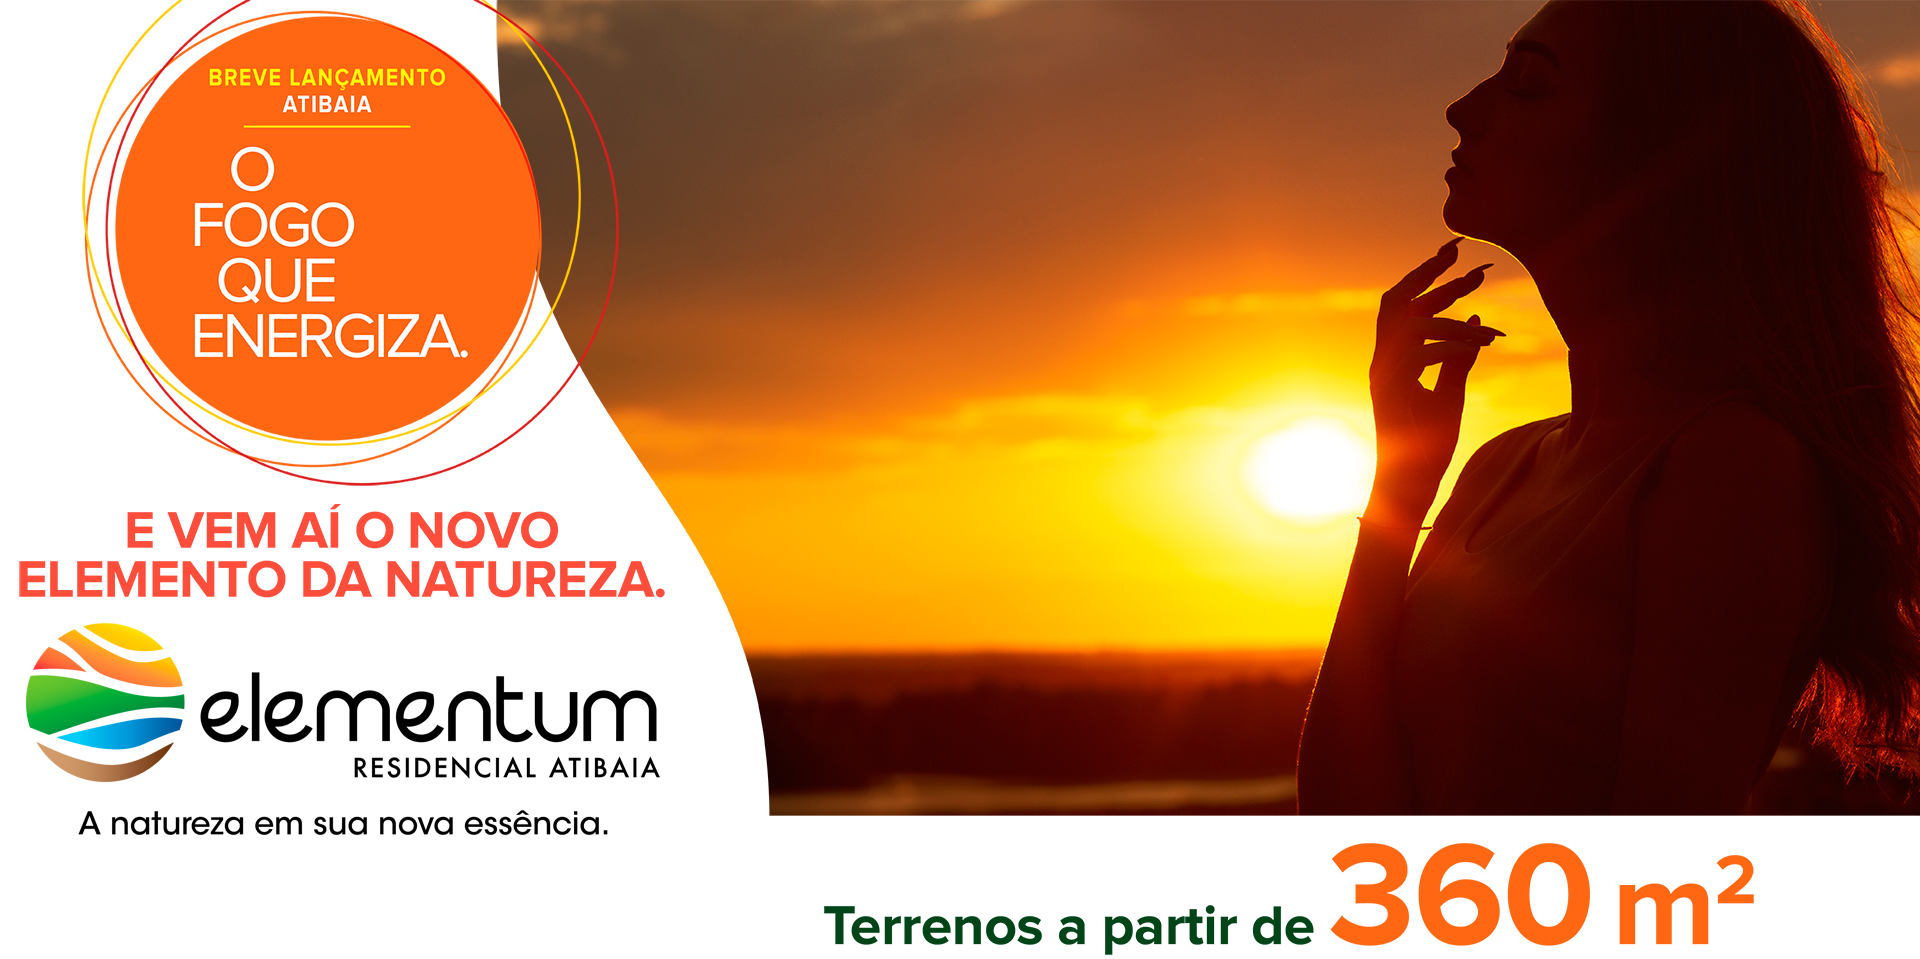
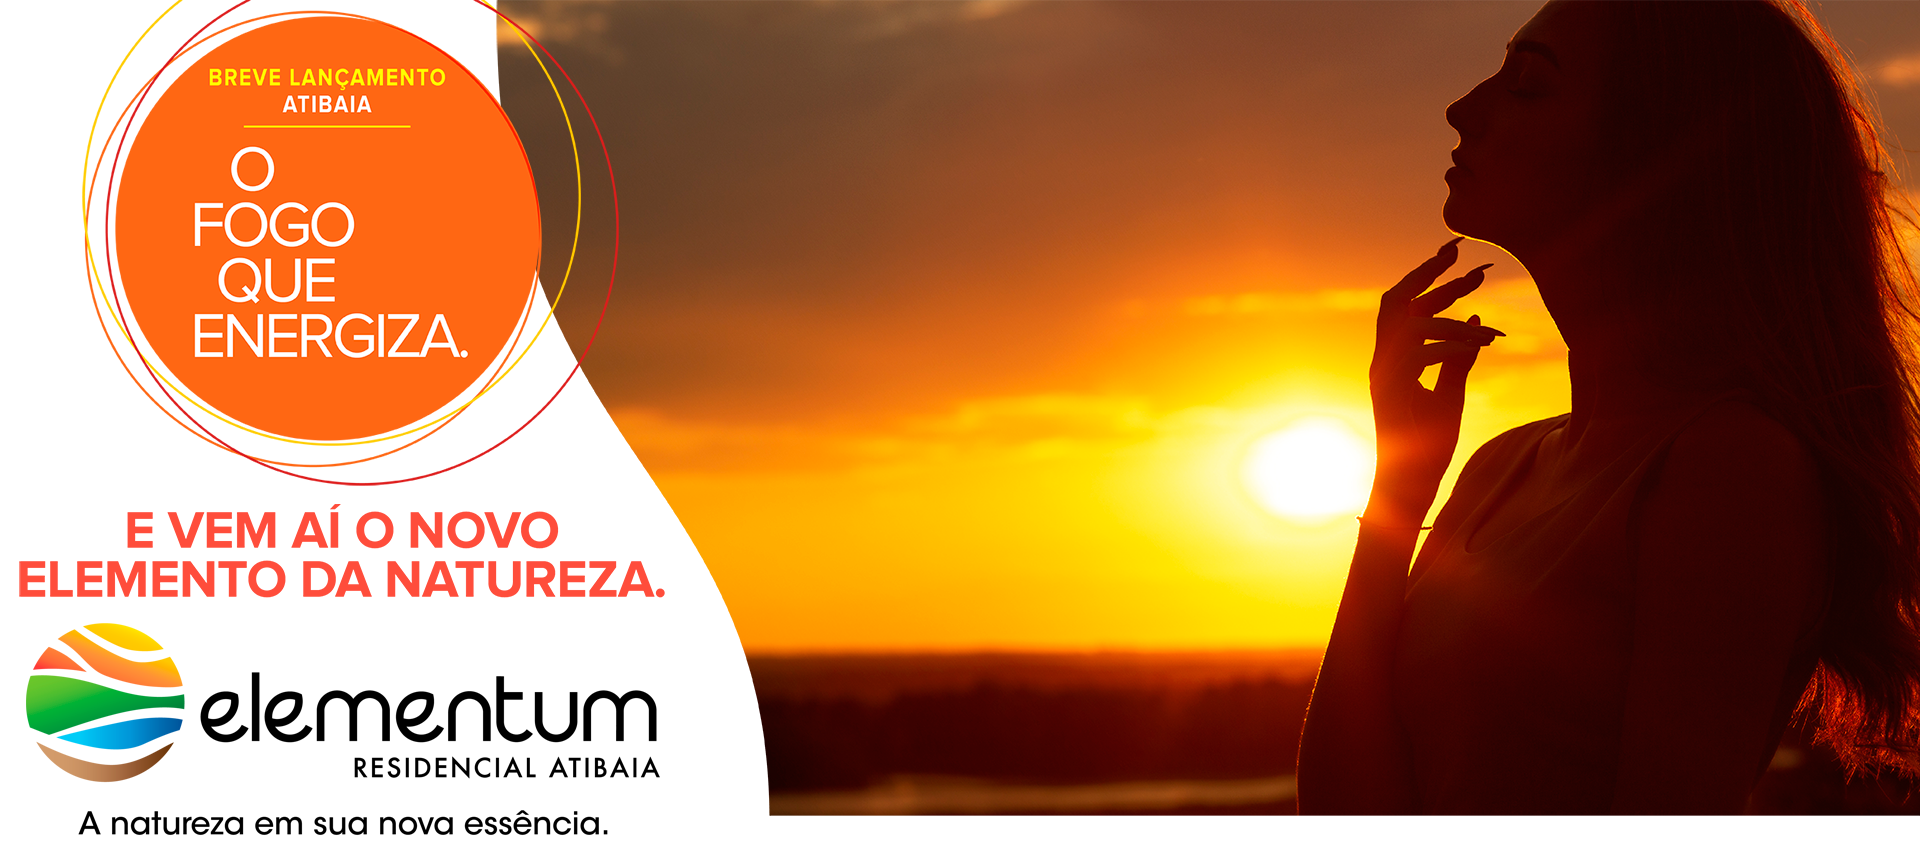
Ajuste renata

diff --git a/assets/css/style.css b/assets/css/style.css
@@ -418,7 +418,7 @@ p {
 /* Medium */
 /* Large */
 .loteamento {
-  margin-top: 20px;
+  margin-top: 10px;
   padding-bottom: 30px;
 }
 
@@ -432,10 +432,10 @@ p {
   background-color: #f26722;
   color: #fff;
   font-size: 25px;
-  line-height: 30px;
+  line-height: 45px;
   display: table;
-  margin: 10px auto 0;
-  letter-spacing: 2px;
+  margin: 0 auto 0;
+  letter-spacing: 4px;
   padding: 6px 90px 4px;
   text-transform: uppercase;
 }
@@ -618,18 +618,18 @@ p {
 }
 
 .contato .mapa h6 {
-  font-size: 20px;
-  line-height: 20px;
+  font-size: 30px;
+  line-height: 30px;
   color: #f26722;
   text-transform: uppercase;
   letter-spacing: 3px;
   margin-bottom: 5px;
-  margin-top: 0;
+  margin-top: 145px;
 }
 
 .contato .mapa p {
-  font-size: 20px;
-  line-height: 23px;
+  font-size: 25px;
+  line-height: 30px;
   color: #00582c;
 }
 

diff --git a/assets/css/contato.scss b/assets/css/contato.scss
@@ -120,18 +120,18 @@
         }
 
         h6 {
-            font-size: 20px;
-            line-height: 20px;
+            font-size: 30px;
+            line-height: 30px;
             color: #f26722;
             text-transform: uppercase;
             letter-spacing: 3px;
             margin-bottom: 5px;
-            margin-top: 0;
+            margin-top: 145px;
         }
 
         p {
-            font-size: 20px;
-            line-height: 23px;
+            font-size: 25px;
+            line-height: 30px;
             color: #00582c;
         }
     }

diff --git a/assets/css/loteamento.scss b/assets/css/loteamento.scss
@@ -1,5 +1,5 @@
 .loteamento {
-    margin-top: 20px;
+    margin-top: 10px;
     padding-bottom: 30px;
 
     p {
@@ -12,10 +12,10 @@
         background-color: #f26722;
         color: #fff;
         font-size: 25px;
-        line-height: 30px;
+        line-height: 45px;
         display: table;
-        margin: 10px auto 0;
-        letter-spacing: 2px;
+        margin: 0 auto 0;
+        letter-spacing: 4px;
         padding: 6px 90px 4px;
         text-transform: uppercase;
         span {

diff --git a/assets/css/loteamento.css b/assets/css/loteamento.css
@@ -1,5 +1,5 @@
 .loteamento {
-  margin-top: 20px;
+  margin-top: 10px;
   padding-bottom: 30px;
 }
 
@@ -13,10 +13,10 @@
   background-color: #f26722;
   color: #fff;
   font-size: 25px;
-  line-height: 30px;
+  line-height: 45px;
   display: table;
-  margin: 10px auto 0;
-  letter-spacing: 2px;
+  margin: 0 auto 0;
+  letter-spacing: 4px;
   padding: 6px 90px 4px;
   text-transform: uppercase;
 }

diff --git a/assets/css/contato.css b/assets/css/contato.css
@@ -125,18 +125,18 @@
 }
 
 .contato .mapa h6 {
-  font-size: 20px;
-  line-height: 20px;
+  font-size: 30px;
+  line-height: 30px;
   color: #f26722;
   text-transform: uppercase;
   letter-spacing: 3px;
   margin-bottom: 5px;
-  margin-top: 0;
+  margin-top: 145px;
 }
 
 .contato .mapa p {
-  font-size: 20px;
-  line-height: 23px;
+  font-size: 25px;
+  line-height: 30px;
   color: #00582c;
 }
 

diff --git a/assets/css/style.scss b/assets/css/style.scss
@@ -4,5 +4,5 @@
 @import "info";
 @import "loteamento";                                                                              
 @import "contato";
-@import "politica";
+@import "politica";          
                                                                                                        

diff --git a/application/views/contato_insucesso.php b/application/views/contato_insucesso.php
@@ -1,19 +1,19 @@
 <div class="galeria">
     <section class="galeria-elementum slider">
         <div>
-            <img class="img-responsive center-block" src="<?= base_url(); ?>assets/images/slide-01.png?1551369906077" alt="Elementum Residencial Atibaia">
+            <img class="img-responsive center-block" src="<?= base_url(); ?>assets/images/slide-01.png?1551369906078" alt="Elementum Residencial Atibaia">
         </div>
         <div>
-            <img class="img-responsive center-block" src="<?= base_url(); ?>assets/images/slide-02.png?1551369906077" alt="Elementum Residencial Atibaia">
+            <img class="img-responsive center-block" src="<?= base_url(); ?>assets/images/slide-02.png?1551369906078" alt="Elementum Residencial Atibaia">
         </div>
         <div>
-            <img class="img-responsive center-block" src="<?= base_url(); ?>assets/images/slide-03.png?1551369906077" alt="Elementum Residencial Atibaia">
+            <img class="img-responsive center-block" src="<?= base_url(); ?>assets/images/slide-03.png?1551369906078" alt="Elementum Residencial Atibaia">
         </div>
         <div>
-            <img class="img-responsive center-block" src="<?= base_url(); ?>assets/images/slide-04.png?1551369906077" alt="Elementum Residencial Atibaia">
+            <img class="img-responsive center-block" src="<?= base_url(); ?>assets/images/slide-04.png?1551369906078" alt="Elementum Residencial Atibaia">
         </div>
         <div>
-            <img class="img-responsive center-block" src="<?= base_url(); ?>assets/images/slide-05.png?1551369906077" alt="Elementum Residencial Atibaia">
+            <img class="img-responsive center-block" src="<?= base_url(); ?>assets/images/slide-05.png?1551369906078" alt="Elementum Residencial Atibaia">
         </div>
     </section>
 </div>
@@ -23,9 +23,9 @@
         <div class="row">
             <div class="col-xs-12 col-sm-12 col-md-12 text-center">
                 <p class="txt-2">LOTEAMENTO FECHADO<br>
-                    <span>TERRENOS A PARTIR DE 360 M²</span>
+                    <span>TERRENOS A PARTIR DE 360M²</span>
                 </p>
-                <p class="txt-4"><span class="txt-3">Visite ShowRoom:</span> Estrada Municipal Luciano Rocha Peçanha, 2795 • Bairro Ressaca</p>
+                <!-- <p class="txt-4"><span class="txt-3">Visite ShowRoom:</span> Estrada Municipal Luciano Rocha Peçanha, 2795 • Bairro Ressaca</p> -->
             </div>
         </div>
     </div>
@@ -121,7 +121,7 @@
             <div class="col-xs-12 col-sm-12 col-md-12 text-center txt">
                 <p>Em breve nosso consultor retornará com as informações.</p>
             </div>
-            <div class="col-xs-12 col-sm-12 col-md-12 col-lg-10 col-lg-offset-1 padding-off mapa">
+            <div class="col-xs-12 col-sm-12 col-md-12 col-lg-12 padding-off mapa">
                 <div class="col-xs-12 col-sm-8 col-md-8">
                     <a href="">
                         <img class="img-responsive center-block" src="<?= base_url(); ?>assets/images/mapa.jpg" alt="Mapa">
@@ -131,7 +131,7 @@
                     <h6>Visite ShowRoom:</h6>
                     <p>Estrada Municipal Luciano Rocha Peçanha, 2795<br>
                         Bairro Ressaca – Atibaia<br>
-                        à apenas 50 min de São Paulo</p>
+                        À apenas 50 min de São Paulo</p>
                 </div>
             </div>
         </div>

diff --git a/application/views/contato_sucesso.php b/application/views/contato_sucesso.php
@@ -1,19 +1,19 @@
 <div class="galeria">
     <section class="galeria-elementum slider">
         <div>
-            <img class="img-responsive center-block" src="<?= base_url(); ?>assets/images/slide-01.png?1551369906077" alt="Elementum Residencial Atibaia">
+            <img class="img-responsive center-block" src="<?= base_url(); ?>assets/images/slide-01.png?1551369906078" alt="Elementum Residencial Atibaia">
         </div>
         <div>
-            <img class="img-responsive center-block" src="<?= base_url(); ?>assets/images/slide-02.png?1551369906077" alt="Elementum Residencial Atibaia">
+            <img class="img-responsive center-block" src="<?= base_url(); ?>assets/images/slide-02.png?1551369906078" alt="Elementum Residencial Atibaia">
         </div>
         <div>
-            <img class="img-responsive center-block" src="<?= base_url(); ?>assets/images/slide-03.png?1551369906077" alt="Elementum Residencial Atibaia">
+            <img class="img-responsive center-block" src="<?= base_url(); ?>assets/images/slide-03.png?1551369906078" alt="Elementum Residencial Atibaia">
         </div>
         <div>
-            <img class="img-responsive center-block" src="<?= base_url(); ?>assets/images/slide-04.png?1551369906077" alt="Elementum Residencial Atibaia">
+            <img class="img-responsive center-block" src="<?= base_url(); ?>assets/images/slide-04.png?1551369906078" alt="Elementum Residencial Atibaia">
         </div>
         <div>
-            <img class="img-responsive center-block" src="<?= base_url(); ?>assets/images/slide-05.png?1551369906077" alt="Elementum Residencial Atibaia">
+            <img class="img-responsive center-block" src="<?= base_url(); ?>assets/images/slide-05.png?1551369906078" alt="Elementum Residencial Atibaia">
         </div>
     </section>
 </div>
@@ -23,9 +23,9 @@
         <div class="row">
             <div class="col-xs-12 col-sm-12 col-md-12 text-center">
                 <p class="txt-2">LOTEAMENTO FECHADO<br>
-                    <span>TERRENOS A PARTIR DE 360 M²</span>
+                    <span>TERRENOS A PARTIR DE 360M²</span>
                 </p>
-                <p class="txt-4"><span class="txt-3">Visite ShowRoom:</span> Estrada Municipal Luciano Rocha Peçanha, 2795 • Bairro Ressaca</p>
+                <!-- <p class="txt-4"><span class="txt-3">Visite ShowRoom:</span> Estrada Municipal Luciano Rocha Peçanha, 2795 • Bairro Ressaca</p> -->
             </div>
         </div>
     </div>
@@ -121,7 +121,7 @@
             <div class="col-xs-12 col-sm-12 col-md-12 text-center txt">
                 <p>Em breve nosso consultor retornará com as informações.</p>
             </div>
-            <div class="col-xs-12 col-sm-12 col-md-12 col-lg-10 col-lg-offset-1 padding-off mapa">
+            <div class="col-xs-12 col-sm-12 col-md-12 col-lg-12 padding-off mapa">
                 <div class="col-xs-12 col-sm-8 col-md-8">
                     <a href="">
                         <img class="img-responsive center-block" src="<?= base_url(); ?>assets/images/mapa.jpg" alt="Mapa">
@@ -131,7 +131,7 @@
                     <h6>Visite ShowRoom:</h6>
                     <p>Estrada Municipal Luciano Rocha Peçanha, 2795<br>
                         Bairro Ressaca – Atibaia<br>
-                        à apenas 50 min de São Paulo</p>
+                        À apenas 50 min de São Paulo</p>
                 </div>
             </div>
         </div>

diff --git a/application/views/home_view.php b/application/views/home_view.php
@@ -1,19 +1,19 @@
 <div class="galeria">
     <section class="galeria-elementum slider">
         <div>
-            <img class="img-responsive center-block" src="<?= base_url(); ?>assets/images/slide-01.png?1551369906077" alt="Elementum Residencial Atibaia">
+            <img class="img-responsive center-block" src="<?= base_url(); ?>assets/images/slide-01.png?1551369906078" alt="Elementum Residencial Atibaia">
         </div>
         <div>
-            <img class="img-responsive center-block" src="<?= base_url(); ?>assets/images/slide-02.png?1551369906077" alt="Elementum Residencial Atibaia">
+            <img class="img-responsive center-block" src="<?= base_url(); ?>assets/images/slide-02.png?1551369906078" alt="Elementum Residencial Atibaia">
         </div>
         <div>
-            <img class="img-responsive center-block" src="<?= base_url(); ?>assets/images/slide-03.png?1551369906077" alt="Elementum Residencial Atibaia">
+            <img class="img-responsive center-block" src="<?= base_url(); ?>assets/images/slide-03.png?1551369906078" alt="Elementum Residencial Atibaia">
         </div>
         <div>
-            <img class="img-responsive center-block" src="<?= base_url(); ?>assets/images/slide-04.png?1551369906077" alt="Elementum Residencial Atibaia">
+            <img class="img-responsive center-block" src="<?= base_url(); ?>assets/images/slide-04.png?1551369906078" alt="Elementum Residencial Atibaia">
         </div>
         <div>
-            <img class="img-responsive center-block" src="<?= base_url(); ?>assets/images/slide-05.png?1551369906077" alt="Elementum Residencial Atibaia">
+            <img class="img-responsive center-block" src="<?= base_url(); ?>assets/images/slide-05.png?1551369906078" alt="Elementum Residencial Atibaia">
         </div>
     </section>
 </div>
@@ -23,9 +23,9 @@
         <div class="row">
             <div class="col-xs-12 col-sm-12 col-md-12 text-center">
                 <p class="txt-2">LOTEAMENTO FECHADO<br>
-                    <span>TERRENOS A PARTIR DE 360 M²</span>
+                    <span>TERRENOS A PARTIR DE 360M²</span>
                 </p>
-                <p class="txt-4"><span class="txt-3">Visite ShowRoom:</span> Estrada Municipal Luciano Rocha Peçanha, 2795 • Bairro Ressaca</p>
+                <!-- <p class="txt-4"><span class="txt-3">Visite ShowRoom:</span> Estrada Municipal Luciano Rocha Peçanha, 2795 • Bairro Ressaca</p> -->
             </div>
         </div>
     </div>
@@ -121,7 +121,7 @@
             <div class="col-xs-12 col-sm-12 col-md-12 text-center txt">
                 <p>Em breve nosso consultor retornará com as informações.</p>
             </div>
-            <div class="col-xs-12 col-sm-12 col-md-12 col-lg-10 col-lg-offset-1 padding-off mapa">
+            <div class="col-xs-12 col-sm-12 col-md-12 col-lg-12 padding-off mapa">
                 <div class="col-xs-12 col-sm-8 col-md-8">
                     <a href="">
                         <img class="img-responsive center-block" src="<?= base_url(); ?>assets/images/mapa.jpg" alt="Mapa">
@@ -131,7 +131,7 @@
                     <h6>Visite ShowRoom:</h6>
                     <p>Estrada Municipal Luciano Rocha Peçanha, 2795<br>
                         Bairro Ressaca – Atibaia<br>
-                        à apenas 50 min de São Paulo</p>
+                        À apenas 50 min de São Paulo</p>
                 </div>
             </div>
         </div>

diff --git a/application/views/html_header.php b/application/views/html_header.php
@@ -33,7 +33,7 @@
     );
     echo meta($meta);
     echo link_tag('assets/css/bootstrap.min.css');
-    echo link_tag('assets/css/style.css?v=06');
+    echo link_tag('assets/css/style.css?v=07');
     echo link_tag('assets/css/slick.css');
     echo link_tag('assets/css/slick-theme.css');
     ?>
